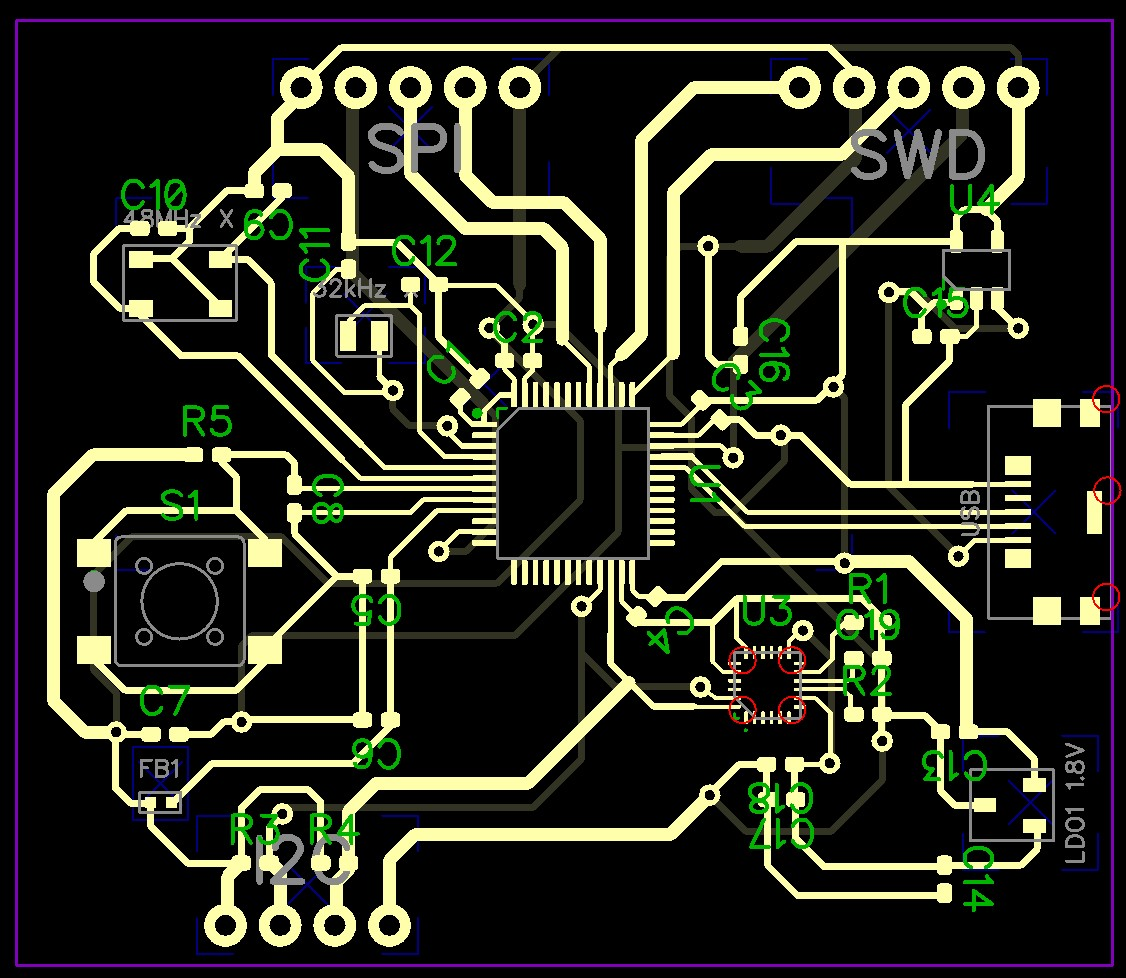
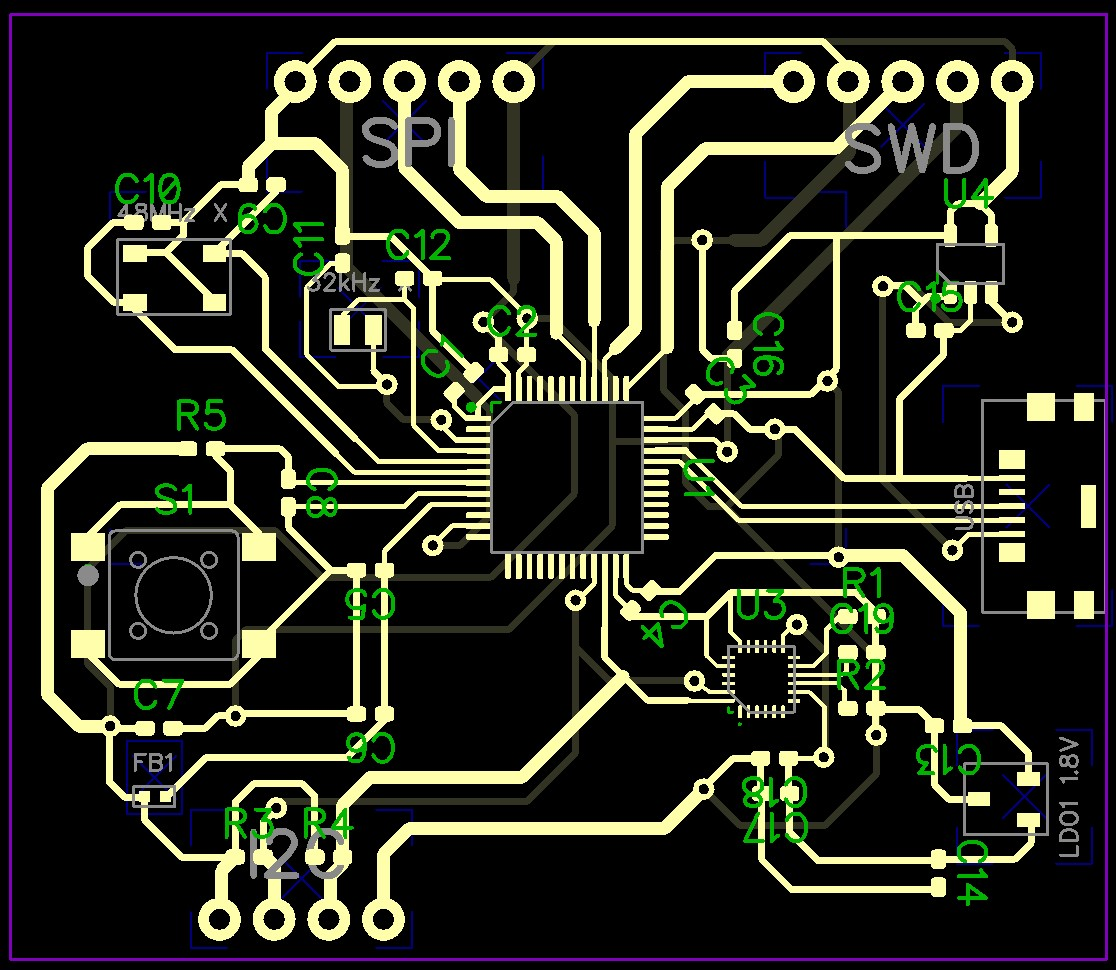
finished

diff --git a/README.md b/README.md
@@ -20,7 +20,7 @@ The PCB board has been tested to have the low power characteristics, with 0.121W
 - Adafruit USB Micro-B Breakout Board
 ![image](https://github.com/mujiexu2/ELEC0054_Dissertation_XuMujie/blob/main/images/powertest1.jpg)
 
-## PCB Design
+## PCB Design (size: 50.961mm x 43.929mm)
 Component List:
 - InvenSense ICM20948 (World's Lowest-Power 9‑Axis MEMS MotionTracking® Device)
 - STM32L412CBT6 (Ultra-low-power Arm® Cortex®-M4 32-bit MCU+FPU)
